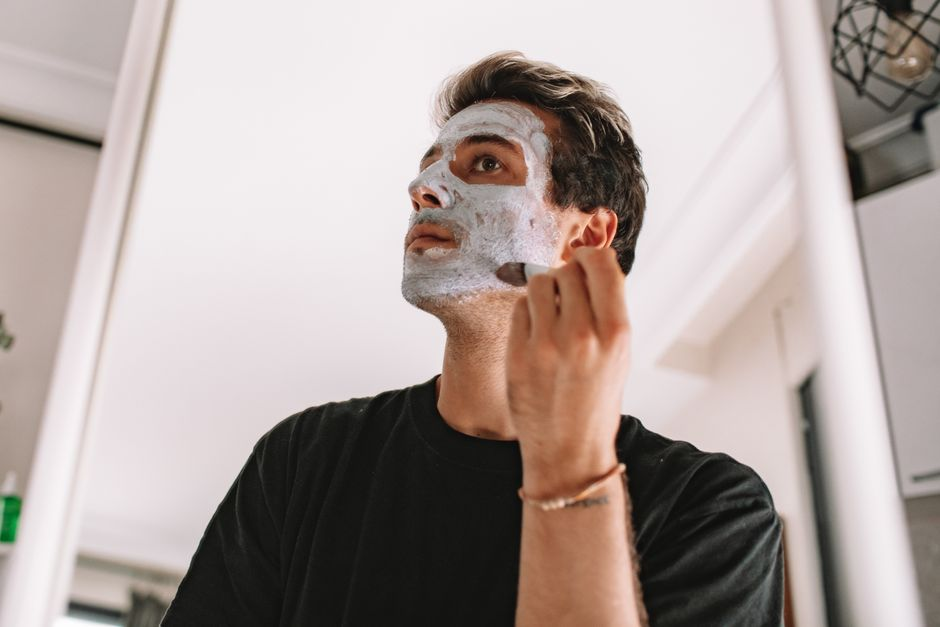
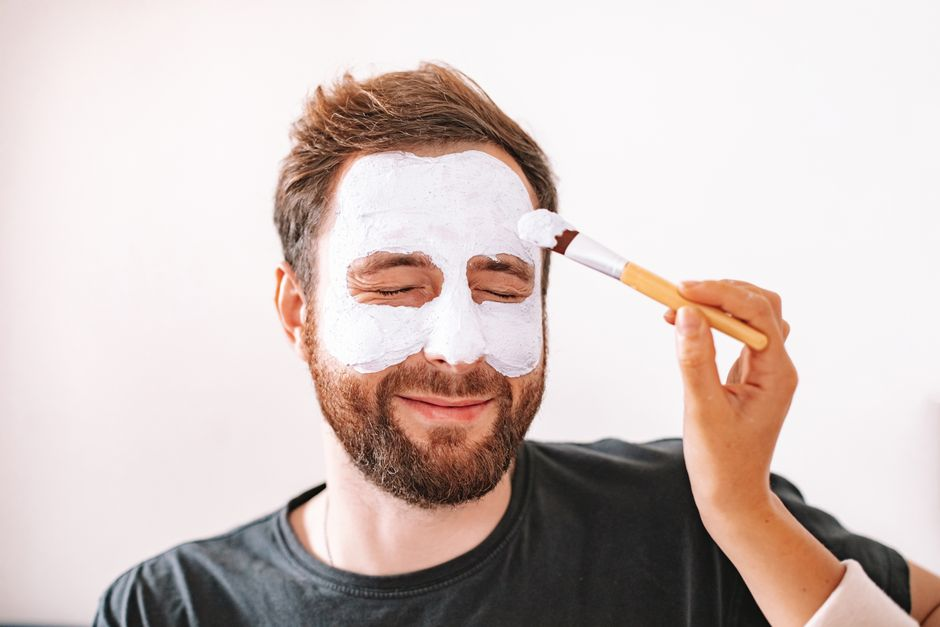
情報記事の写真重複を修正、デザインリサーチ結果を記録
Pexels検索が常に上位1件だけを返していたため、ジャンル固定のphoto_queryを
使う情報系記事は同ジャンル内で写真が重複していた。候補30件からused_photos.jsonで
重複を避けてランダムに選ぶよう修正し、既存記事の画像も再生成した。
CLAUDE.mdに2026年デザイントレンドのリサーチ結果も記録。

diff --git a/photo_source.py b/photo_source.py
@@ -7,7 +7,9 @@ youtube_jidoで発行済みのPEXELS_API_KEYを共有利用する。
 呼び出し側(content_pipeline.py)がPillow生成のサムネイルにフォールバックする。
 """
 
+import json
 import os
+import random
 from pathlib import Path
 
 import requests
@@ -17,28 +19,53 @@ load_dotenv()
 
 PEXELS_API_KEY = os.environ.get("PEXELS_API_KEY")
 PEXELS_SEARCH_URL = "https://api.pexels.com/v1/search"
+USED_PHOTOS_FILE = Path(__file__).parent / "used_photos.json"
+
+
+def _load_used_ids() -> set:
+    if not USED_PHOTOS_FILE.exists():
+        return set()
+    try:
+        return set(json.loads(USED_PHOTOS_FILE.read_text(encoding="utf-8")))
+    except Exception:
+        return set()
+
+
+def _save_used_id(photo_id) -> None:
+    used = _load_used_ids()
+    used.add(photo_id)
+    USED_PHOTOS_FILE.write_text(json.dumps(sorted(used, key=str), ensure_ascii=False, indent=2), encoding="utf-8")
 
 
 def fetch_photo(query: str, dest_path: Path) -> bool:
-    """queryに合う写真を1枚探してdest_pathに保存する。成功したらTrue。"""
+    """queryに合う写真を候補から探し、他の記事でまだ使っていない1枚をdest_pathに保存する。
+    同じジャンルのphoto_queryが固定のため、常に上位1件だけを取ると記事間で写真が重複する。
+    そのため候補を複数取得し、used_photos.jsonで使用済みIDを避けてランダムに選ぶ。
+    成功したらTrue。"""
     if not PEXELS_API_KEY:
         return False
     try:
         resp = requests.get(
             PEXELS_SEARCH_URL,
             headers={"Authorization": PEXELS_API_KEY},
-            params={"query": query, "per_page": 1, "orientation": "landscape"},
+            params={"query": query, "per_page": 30, "orientation": "landscape"},
             timeout=15,
         )
         resp.raise_for_status()
         photos = resp.json().get("photos", [])
         if not photos:
             return False
-        image_url = photos[0]["src"]["large"]
+
+        used = _load_used_ids()
+        candidates = [p for p in photos if p["id"] not in used] or photos
+        chosen = random.choice(candidates)
+
+        image_url = chosen["src"]["large"]
         img_resp = requests.get(image_url, timeout=20)
         img_resp.raise_for_status()
         dest_path.parent.mkdir(parents=True, exist_ok=True)
         dest_path.write_bytes(img_resp.content)
+        _save_used_id(chosen["id"])
         return True
     except Exception:
         return False

diff --git a/CLAUDE.md b/CLAUDE.md
@@ -43,6 +43,9 @@
 - Phase 5のうち日次タスク`ContentSite_EveningAutoUpdate`(ログオン時トリガー+20時以降+1日1回ガード、`run_if_evening.py`)は登録済み。
 - Phase 3(Search Console/Analytics連携によるアクセス分析→自動修正ループ)は**未着手**。Google Cloudでの OAuthクライアント発行・Search Console/Analyticsプロパティ作成というユーザー側の追加作業が必要。記事の蓄積・インデックス登録には数日〜数週間かかるため、急ぐ理由がない限り後回しでよい。
 - Google Search Console/Analyticsの「サイト所有権確認」「アクセス解析タグの設置」自体は、ユーザーがプロパティを作成して確認コード/測定IDを教えてくれれば、Claudeが`templates/base.html`にタグを追加するだけで完了する(OAuth連携なしでも可視化はできる)。
+- **コメント機能を追加済み(2026-09-11)**: giscus(GitHub Discussionsを裏側に使う無料のコメントシステム)を`templates/article.html`に埋め込み、全記事ページの末尾に表示している。リポジトリのDiscussions機能を有効化し、giscus GitHub App(このリポジトリのみに権限を許可)をインストール済み。訪問者は自分のGitHubアカウントで自由にコメント・リアクションできる。設定値(`data-repo-id`等)はgiscus.appで生成したもの。
+- **記事ヒーロー画像の重複を修正(2026-09-11)**: `photo_source.fetch_photo`が常にPexels検索の上位1件だけを取得していたため、`photo_query`がジャンル固定(`content_pipeline.py`の`GENRES`)である情報系記事は同ジャンル内で同じ写真になっていた。候補を30件取得し`used_photos.json`(使用済みPexels写真ID)で重複を避けてランダムに選ぶよう修正。既存記事の画像も再生成済み。
+- **デザインは外部サイトリサーチ済み(2026-09-11)**: 2026年のブログ/LPデザイン動向を調査した結果、現行デザイン(セリフ+サンセリフ、カード型グリッド、ソフトな box-shadow+ホバーで浮き上がる、余白重視)は「ミニマル・エディトリアル」路線として概ねトレンドに合致していることを確認。今後さらに手を入れるなら、2026年のもう一つの潮流である**Bento UI**(大小の角丸ボックスをパズル状に組み合わせるモジュール型レイアウト)を注目記事セクション等に取り入れる余地がある。デザイン改善は継続タスクとして今後も外部リサーチしながら進める。
 
 ## 自動投稿スケジュール
 
